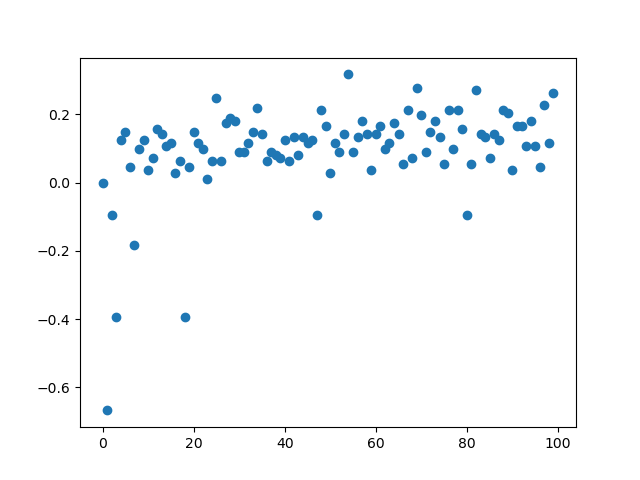
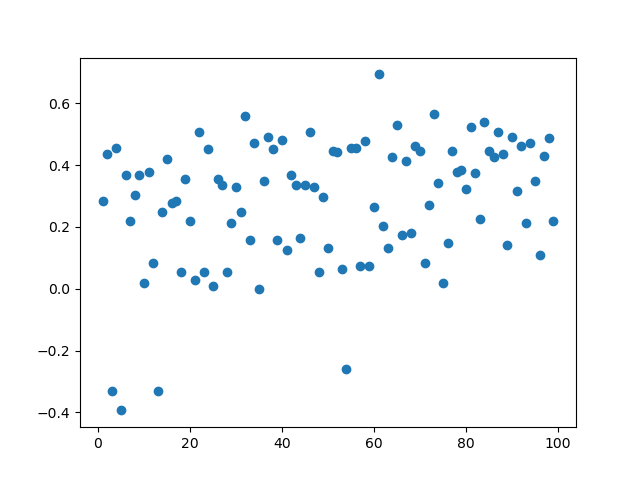
feat: consider the influence of the destance

diff --git a/utils.py b/utils.py
@@ -6,13 +6,17 @@ from torch.cuda import is_available as is_cuda_available
 import json
 import logging
 from queue import Queue  # for storaging the move action of persons
+from queue import PriorityQueue
 from random import random
 import matplotlib.pyplot as plt
 import math
+from pprint import pprint
 
 device = "cuda" if is_cuda_available() else "cpu"
-lr = 0.01  # Learning rate
-habit_factor = 0.5  # between [0, 1], indicates the degree to which people's choices are influenced by habits
+lr = 1  # Learning rate
+habit_factor = 0.7  # between [0, 1], indicates the degree to which people's choices are influenced by habits
+destance_factor = 0.7  # between [0, 1], indicates the degree to which people's choices are influenced by destance to destinations
+immdediate_factor = 0.7  # between [0, 1], indicates the degree to which people's choices are influenced by immediate situation
 epoch_num = 100  # epoch number
 Point = namedtuple('Point', ['row', 'col'])
 Position = namedtuple('Position', ['floor_num', 'row', 'col'])
@@ -97,16 +101,28 @@ class Person:
 
     @property
     def p(self):
-        """The result is determined by both habit and immediate decision.
+        """The result is determined by habit, immediate decision and destance to the destinations.
         The habit could be trained, and is determined by the last iteration.
-        The immediate decision is determined by the reduce rate of the exits which are at the same room as this exit
+        The immediate decision is determined by the reduce rate of the exits which are at the same room as this exit.
+        The destance is calculated by Dijkstra
 
         Returns:
-            list[float]: sum() = 1
+            Tensor: sum() = 1
         """
         p = self.get_p(self.position)
         p_immediate = normalize(
             tensor([exit.reduce_rate for exit in self.exits], device=device), p=1, dim=0
+        )
+        p_destance = normalize(
+            tensor(
+                [
+                    1 / exit.target.destance if exit.target.destance else 1.0
+                    for exit in self.exits
+                ],
+                device=device,
+            ),
+            p=1,
+            dim=0,
         )
         # todo This can be trained
         if p is None:
@@ -118,12 +134,15 @@ class Person:
                 position=self.position,
                 target=tensor([1 / len(self.exits) for _ in self.exits], device=device)
                 * habit_factor
-                + p_immediate * (1 - habit_factor),
+                + p_immediate * immdediate_factor
+                + p_destance * destance_factor,
             )
         if p is not None:
             self.set_p(
                 position=self.position,
-                target=p * habit_factor + p_immediate * (1 - habit_factor),
+                target=p * habit_factor
+                + p_immediate * immdediate_factor
+                + p_destance * destance_factor,
             )
         return self.get_p(position=self.position)
 
@@ -177,6 +196,13 @@ class Person:
         """
         self._route.append(exit)
         self.room = exit.target
+
+    def show_route(self):
+        pprint(self._p)
+        for exit in self.route[:-1:]:
+            print(f'{exit.outset.position}=>', end='')
+        print(self.route[-1].target.position)
+        print('\n')
 
     def reset(self):
         """Reset this person to the original room and clean the cost and route but keep p"""
@@ -368,6 +394,25 @@ class Room:
     @property
     def persons(self) -> list[Person]:
         return self._persons
+
+    @property
+    def destance(self) -> int:
+        myqueue = PriorityQueue()
+        myqueue.put((0, self.position))
+        cost_so_far = {self.position: 0}
+        while not myqueue.empty():
+            current: Room = self.building.get_room(myqueue.get()[1])
+            if current in self.building.destinations:
+                break
+            for next_room in [exit.target for exit in current.exits]:
+                new_cost = cost_so_far[current.position] + 1
+                if (
+                    next_room.position not in cost_so_far
+                    or new_cost < cost_so_far[next_room.position]
+                ):
+                    cost_so_far[next_room.position] = new_cost
+                    myqueue.put((new_cost, next_room.position))
+        return cost_so_far[current.position]
 
 
 class Floor:
@@ -641,6 +686,8 @@ class Optimizer:
     def step(self, loss: float):
         loss *= self.lr
         for person in self._building.persons:
+            if person.cost > 10:
+                person.show_route()
             for exit in person.route:
                 i = exit.outset.exits.index(exit)
                 person.modify_p(exit=exit, exit_index=i, loss=loss)
@@ -699,7 +746,7 @@ def train(epoch_num):
 def draw_loss(train_info: list[(int, float)]):
     plt.xlabel = 'epoch_num'
     plt.ylabel = 'loss'
-    epoch, loss = [i[0] for i in train_info], [i[1] for i in train_info]
+    epoch, loss = [i[0] for i in train_info[1::]], [i[1] for i in train_info[1::]]
     plt.scatter(epoch, loss)
     # plt.show()
     plt.savefig('./result.png')

diff --git a/test_.py b/test_.py
@@ -2,6 +2,4 @@ import numpy as np
 from torch import tensor
 from torch.nn.functional import normalize
 
-dic = {1: tensor([1, 2, 3], dtype=float)}
-
-print(normalize(dic[1], p=1, dim=0))
+print(normalize(tensor([-1, -2, -3], dtype=float), p=1, dim=0))
